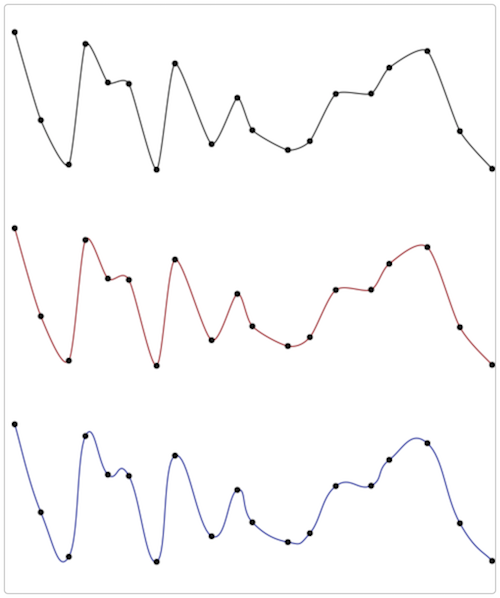
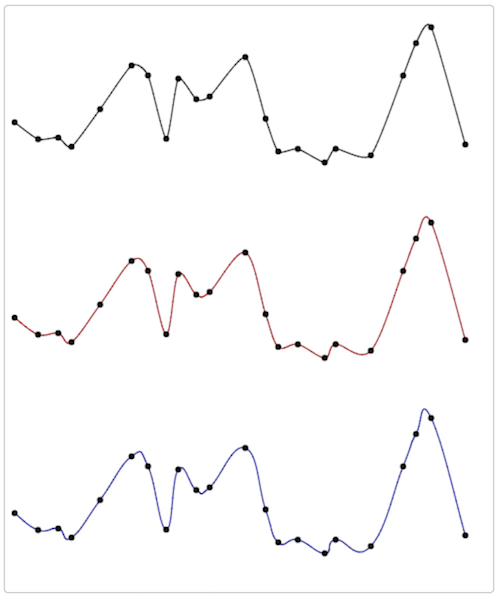
refine

diff --git a/source/_posts/fe-smooth-curve.md b/source/_posts/fe-smooth-curve.md
@@ -4,7 +4,7 @@ date: 2017-06-24 17:13:41
 tags: FE
 ---
 
-本文介绍在 JS 中绘制平滑曲线的实现，调用下面的函数 drawSmoothCurve() 即可。默认曲线的 2 个顶点之间被分割为 16 个小线段来拟合曲线，下图展示了 tension 为 0.3，0.4，0.7 时的曲线效果，tension 并不是越大越好，默认的 0.4 大多数时候就不错。
+本文介绍在 JS 中绘制平滑曲线的实现，调用下面的函数 drawSmoothCurve() 即可。默认曲线的 2 个顶点之间被分割为 16 个小线段来拟合曲线，下图展示了 tension 为 0.3，0.5，0.7 时的曲线效果，tension 并不是越大越好，默认的 0.5 大多数时候就不错。
 
 ![](/img/fe/fe-smooth-curve.png)
 
@@ -52,7 +52,7 @@ tags: FE
 
         context.strokeStyle = 'darkred';
         context.translate(0, 200);
-        drawSmoothCurve(context, points, showPoints); // tension 默认为 0.4，效果不错
+        drawSmoothCurve(context, points, showPoints); // tension 默认为 0.5，效果不错
 
         context.strokeStyle = 'darkblue';
         context.translate(0, 200);
@@ -66,7 +66,7 @@ tags: FE
          *                           points[i+0] 是第 i 个点的 x 坐标，
          *                           points[i+1] 是第 i 个点的 y 坐标
          * @param  {Boolean} showPoints 是否绘制曲线的顶点
-         * @param  {Float}   tension    密集程度，默认为 0.4
+         * @param  {Float}   tension    密集程度，默认为 0.5
          * @param  {Boolean} closed     是否创建闭合曲线，默认为 false
          * @param  {Int}     numberOfSegments 平滑曲线 2 个顶点间的线段数，默认为 16
          * @return 无返回值
@@ -82,7 +82,7 @@ tags: FE
          * @param  {Array}   points  曲线顶点坐标数组，
          *                           points[i+0] 是第 i 个点的 x 坐标，
          *                           points[i+1] 是第 i 个点的 y 坐标
-         * @param  {Float}   tension 密集程度，默认为 0.4
+         * @param  {Float}   tension 密集程度，默认为 0.5
          * @param  {Boolean} closed  是否创建闭合曲线，默认为 false
          * @param  {Int}     numberOfSegments 平滑曲线 2 个顶点间的线段数，默认为 16
          * @return {Array}   平滑曲线的顶点坐标数组
@@ -91,7 +91,7 @@ tags: FE
             if (points.length < 4) { return points; }
 
             // use input value if provided, or use a default value
-            tension = tension ? tension : 0.4;
+            tension = tension ? tension : 0.5;
             closed = closed ? true : false;
             numberOfSegments = numberOfSegments ? numberOfSegments : 16;
 
@@ -123,13 +123,13 @@ tags: FE
             // 1. loop goes through point array
             // 2. loop goes through each segment between the 2 points + 1e point before and after
             for (i = 2; i < (ps.length - 4); i += 2) {
-                for (t = 0; t <= numberOfSegments; t++) {
-                    // calculate tension vectors
-                    t1x = (ps[i + 2] - ps[i - 2]) * tension;
-                    t2x = (ps[i + 4] - ps[i - 0]) * tension;
-                    t1y = (ps[i + 3] - ps[i - 1]) * tension;
-                    t2y = (ps[i + 5] - ps[i + 1]) * tension;
+                // calculate tension vectors
+                t1x = (ps[i + 2] - ps[i - 2]) * tension;
+                t2x = (ps[i + 4] - ps[i - 0]) * tension;
+                t1y = (ps[i + 3] - ps[i - 1]) * tension;
+                t2y = (ps[i + 5] - ps[i + 1]) * tension;
 
+                for (t = 0; t <= numberOfSegments; t++) {
                     // calculate step
                     st = t / numberOfSegments;
 

diff --git a/source/_posts/qt-smooth-curve-1.md b/source/_posts/qt-smooth-curve-1.md
@@ -25,6 +25,11 @@ tags: Qt
 class SmoothCurveGenerator {
 public:
     /**
+     * @brief generateSmoothCurve() 的重载函数
+     */
+    static QPainterPath generateSmoothCurve(QList<QPointF> points, double tension = 0.5, int numberOfSegments = 16);
+
+    /**
      * @brief 使用传入的曲线的顶点坐标创建平滑曲线的顶点。
      * @param points 曲线顶点坐标数组，
      *               points[i+0] 是第 i 个点的 x 坐标，
@@ -43,6 +48,16 @@ public:
 // 文件名: SmoothCurveGenerator.cpp
 #include "SmoothCurveGenerator.h"
 #include <QtMath>
+
+QPainterPath SmoothCurveGenerator::generateSmoothCurve(QList<QPointF> points, double tension, int numberOfSegments) {
+    QList<double> ps;
+
+    foreach (QPointF p, points) {
+        ps << p.x() << p.y();
+    }
+
+    return SmoothCurveGenerator::generateSmoothCurve(ps, tension, numberOfSegments);
+}
 
 QPainterPath SmoothCurveGenerator::generateSmoothCurve(QList<double> points, double tension, int numberOfSegments) {
     QList<double> ps(points); // clone array so we don't change the original points
@@ -63,13 +78,13 @@ QPainterPath SmoothCurveGenerator::generateSmoothCurve(QList<double> points, dou
     // 1. loop goes through point array
     // 2. loop goes through each segment between the 2 points + 1e point before and after
     for (int i = 2; i < (ps.length() - 4); i += 2) {
-        for (int t = 0; t <= numberOfSegments; t++) {
-            // calculate tension vectors
-            t1x = (ps[i + 2] - ps[i - 2]) * tension;
-            t2x = (ps[i + 4] - ps[i - 0]) * tension;
-            t1y = (ps[i + 3] - ps[i - 1]) * tension;
-            t2y = (ps[i + 5] - ps[i + 1]) * tension;
+        // calculate tension vectors
+        t1x = (ps[i + 2] - ps[i - 2]) * tension;
+        t2x = (ps[i + 4] - ps[i - 0]) * tension;
+        t1y = (ps[i + 3] - ps[i - 1]) * tension;
+        t2y = (ps[i + 5] - ps[i + 1]) * tension;
 
+        for (int t = 0; t <= numberOfSegments; t++) {
             // calculate step
             st = (double)t / (double)numberOfSegments;
 
